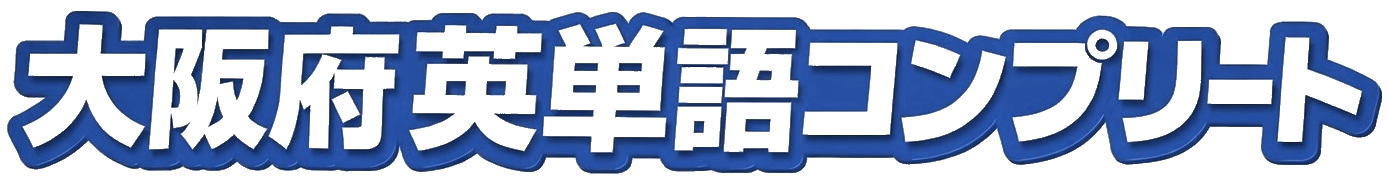
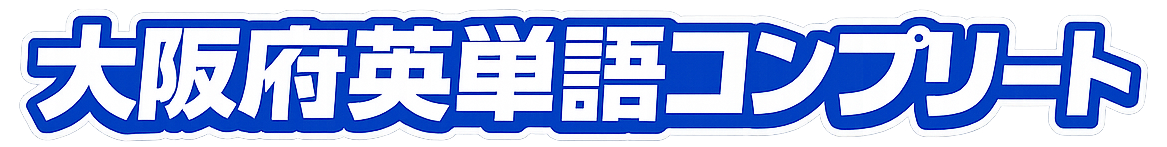
Add files via upload

diff --git a/app.js b/app.js
@@ -2681,6 +2681,7 @@ function updateHeaderButtons(mode, title = '', isTestMode = false) {
     const homeBtn = document.getElementById('homeBtn');
     const headerTitleLogo = document.querySelector('.header-title-logo');
     const headerTitleText = document.getElementById('headerTitleText');
+    const headerTitleImage = document.getElementById('headerTitleImage');
     const headerContent = document.querySelector('.header-content');
     const headerLearningContent = document.getElementById('headerLearningContent');
     const headerLearningActions = document.getElementById('headerLearningActions');
@@ -2729,10 +2730,10 @@ function updateHeaderButtons(mode, title = '', isTestMode = false) {
         }
     }
     
-    // タイトルテキストの表示/非表示
-    if (headerTitleText) {
+    // タイトル画像とテキストの表示/非表示
+    if (headerTitleImage && headerTitleText) {
         if (mode === 'course' && title) {
-            // レベル別にバッジ付きタイトルを設定
+            // コース選択時：テキストを表示、画像を非表示
             if (title === 'カテゴリ別に覚える基本単語') {
                 headerTitleText.innerHTML = '<span class="level-badge level-badge-green">レベル0</span> カテゴリー別360語';
             } else if (title === 'レベル１ 超重要700語') {
@@ -2744,12 +2745,15 @@ function updateHeaderButtons(mode, title = '', isTestMode = false) {
             } else {
                 headerTitleText.textContent = title;
             }
+            headerTitleImage.classList.add('hidden');
             headerTitleText.classList.remove('hidden');
         } else if (mode === 'home') {
-            // ホーム画面では「大阪府英単語コンプリート」を表示
-            headerTitleText.textContent = '大阪府英単語コンプリート';
-            headerTitleText.classList.remove('hidden');
+            // ホーム画面：画像を表示、テキストを非表示
+            headerTitleImage.classList.remove('hidden');
+            headerTitleText.classList.add('hidden');
         } else {
+            // その他：両方非表示
+            headerTitleImage.classList.add('hidden');
             headerTitleText.classList.add('hidden');
         }
     }

diff --git a/index.html b/index.html
@@ -46,7 +46,8 @@
                 </svg>
             </button>
             <div class="header-content">
-                <span class="header-title-text" id="headerTitleText">大阪府英単語コンプリート</span>
+                <img src="title.png" alt="大阪府英単語コンプリート" class="header-title-image" id="headerTitleImage">
+                <span class="header-title-text hidden" id="headerTitleText">大阪府英単語コンプリート</span>
             </div>
         </header>
         

diff --git a/styles.css b/styles.css
@@ -436,6 +436,18 @@ body.learning-mode .app-header {
     display: none;
 }
 
+.header-title-image {
+    height: 24px;
+    width: auto;
+    max-width: calc(100vw - 120px);
+    object-fit: contain;
+    display: block;
+}
+
+.header-title-image.hidden {
+    display: none;
+}
+
 .header-title-logo {
     height: 20px;
     width: auto;
